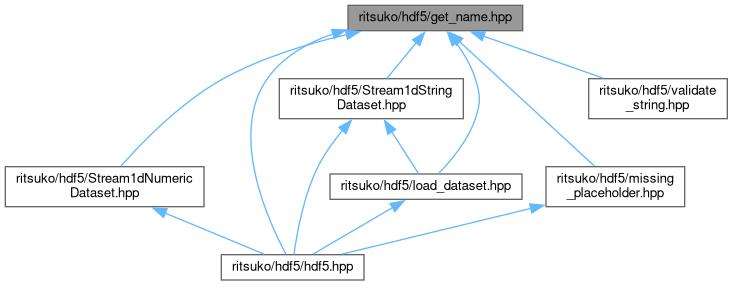
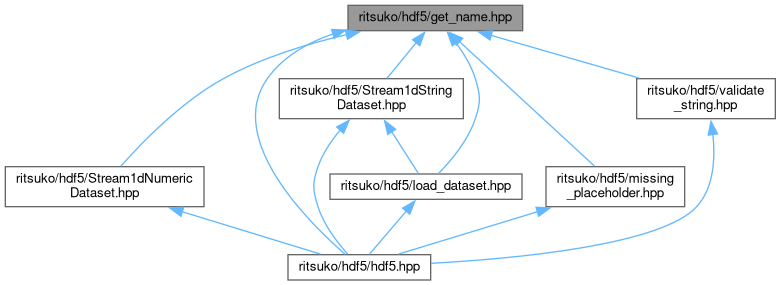
Deploying to gh-pages from @ ArtifactDB/ritsuko@81686f5f65422a0dcd03eb2ab33bd073073ce45b 🚀

diff --git a/docs/hdf5_8hpp.html b/docs/hdf5_8hpp.html
@@ -94,31 +94,33 @@ $(function() {
 <code>#include &quot;<a class="el" href="missing__placeholder_8hpp_source.html">missing_placeholder.hpp</a>&quot;</code><br />
 <code>#include &quot;<a class="el" href="open_8hpp_source.html">open.hpp</a>&quot;</code><br />
 <code>#include &quot;<a class="el" href="pick__1d__block__size_8hpp_source.html">pick_1d_block_size.hpp</a>&quot;</code><br />
+<code>#include &quot;<a class="el" href="validate__string_8hpp_source.html">validate_string.hpp</a>&quot;</code><br />
 </div><div class="textblock"><div class="dynheader">
 Include dependency graph for hdf5.hpp:</div>
 <div class="dyncontent">
 <div class="center"><img src="hdf5_8hpp__incl.png" border="0" usemap="#aritsuko_2hdf5_2hdf5_8hpp" alt=""/></div>
 <map name="aritsuko_2hdf5_2hdf5_8hpp" id="aritsuko_2hdf5_2hdf5_8hpp">
-<area shape="rect" title="Umbrella header for ritsuko&#39;s HDF5 utilities." alt="" coords="877,5,1019,31"/>
-<area shape="rect" href="Stream1dNumericDataset_8hpp.html" title="Stream a numeric 1D HDF5 dataset into memory." alt="" coords="663,152,859,177"/>
-<area shape="rect" href="pick__1d__block__size_8hpp.html" title="Pick a block size for a 1&#45;dimensional HDF5 dataset." alt="" coords="626,225,785,251"/>
-<area shape="rect" href="get__1d__length_8hpp.html" title="Get the length of a 1&#45;dimensional HDF5 dataset." alt="" coords="911,225,1038,251"/>
-<area shape="rect" href="get__name_8hpp.html" title="Get the name of a HDF5 object." alt="" coords="1165,225,1267,251"/>
-<area shape="rect" href="as__numeric__datatype_8hpp.html" title="Choose a HDF5 datatype." alt="" coords="10,225,179,251"/>
-<area shape="rect" href="Stream1dStringDataset_8hpp.html" title="Stream a numeric 1D HDF5 dataset into memory." alt="" coords="985,152,1167,177"/>
-<area shape="rect" href="exceeds__limit_8hpp.html" title="Check for larger&#45;than&#45;expected types in HDF5 datasets." alt="" coords="1495,225,1620,251"/>
-<area shape="rect" href="load__attribute_8hpp_source.html" title=" " alt="" coords="307,152,431,177"/>
-<area shape="rect" href="load__dataset_8hpp.html" title="Helper functions to load datasets." alt="" coords="1135,79,1255,104"/>
-<area shape="rect" href="missing__placeholder_8hpp.html" title="Get the missing placeholder attribute." alt="" coords="695,79,859,104"/>
-<area shape="rect" href="open_8hpp.html" title="Convenience functions to safely open HDF5 handles." alt="" coords="1745,225,1820,251"/>
-<area shape="rect" title=" " alt="" coords="611,299,683,324"/>
-<area shape="rect" title=" " alt="" coords="1097,299,1156,324"/>
-<area shape="rect" title=" " alt="" coords="1569,299,1647,324"/>
-<area shape="rect" title=" " alt="" coords="1354,299,1409,324"/>
-<area shape="rect" title=" " alt="" coords="5,299,88,324"/>
-<area shape="rect" title=" " alt="" coords="112,299,173,324"/>
-<area shape="rect" href="__strings_8hpp_source.html" title=" " alt="" coords="407,225,499,251"/>
-<area shape="rect" title=" " alt="" coords="1743,299,1823,324"/>
+<area shape="rect" title="Umbrella header for ritsuko&#39;s HDF5 utilities." alt="" coords="831,5,973,31"/>
+<area shape="rect" href="Stream1dNumericDataset_8hpp.html" title="Stream a numeric 1D HDF5 dataset into memory." alt="" coords="573,152,769,177"/>
+<area shape="rect" href="pick__1d__block__size_8hpp.html" title="Pick a block size for a 1&#45;dimensional HDF5 dataset." alt="" coords="772,225,931,251"/>
+<area shape="rect" href="get__1d__length_8hpp.html" title="Get the length of a 1&#45;dimensional HDF5 dataset." alt="" coords="352,225,479,251"/>
+<area shape="rect" href="get__name_8hpp.html" title="Get the name of a HDF5 object." alt="" coords="1409,225,1512,251"/>
+<area shape="rect" href="as__numeric__datatype_8hpp.html" title="Choose a HDF5 datatype." alt="" coords="5,225,175,251"/>
+<area shape="rect" href="Stream1dStringDataset_8hpp.html" title="Stream a numeric 1D HDF5 dataset into memory." alt="" coords="901,152,1082,177"/>
+<area shape="rect" href="exceeds__limit_8hpp.html" title="Check for larger&#45;than&#45;expected types in HDF5 datasets." alt="" coords="1107,225,1233,251"/>
+<area shape="rect" href="load__attribute_8hpp_source.html" title=" " alt="" coords="252,152,376,177"/>
+<area shape="rect" href="load__dataset_8hpp.html" title="Helper functions to load datasets." alt="" coords="1222,79,1342,104"/>
+<area shape="rect" href="missing__placeholder_8hpp.html" title="Get the missing placeholder attribute." alt="" coords="333,79,497,104"/>
+<area shape="rect" href="open_8hpp.html" title="Convenience functions to safely open HDF5 handles." alt="" coords="1891,225,1966,251"/>
+<area shape="rect" href="validate__string_8hpp.html" title="Helper functions to validate strings." alt="" coords="1474,152,1605,177"/>
+<area shape="rect" title=" " alt="" coords="815,299,887,324"/>
+<area shape="rect" title=" " alt="" coords="1018,299,1077,324"/>
+<area shape="rect" title=" " alt="" coords="1131,299,1209,324"/>
+<area shape="rect" title=" " alt="" coords="1725,299,1780,324"/>
+<area shape="rect" title=" " alt="" coords="97,299,179,324"/>
+<area shape="rect" title=" " alt="" coords="11,299,73,324"/>
+<area shape="rect" href="__strings_8hpp_source.html" title=" " alt="" coords="656,225,748,251"/>
+<area shape="rect" title=" " alt="" coords="1889,299,1969,324"/>
 </map>
 </div>
 </div>

diff --git a/docs/hdf5_8hpp_source.html b/docs/hdf5_8hpp_source.html
@@ -92,14 +92,15 @@ $(function() {
 <div class="line"><a id="l00012" name="l00012"></a><span class="lineno">   12</span><span class="preprocessor">#include &quot;<a class="code" href="missing__placeholder_8hpp.html">missing_placeholder.hpp</a>&quot;</span></div>
 <div class="line"><a id="l00013" name="l00013"></a><span class="lineno">   13</span><span class="preprocessor">#include &quot;<a class="code" href="open_8hpp.html">open.hpp</a>&quot;</span></div>
 <div class="line"><a id="l00014" name="l00014"></a><span class="lineno">   14</span><span class="preprocessor">#include &quot;<a class="code" href="pick__1d__block__size_8hpp.html">pick_1d_block_size.hpp</a>&quot;</span></div>
-<div class="line"><a id="l00015" name="l00015"></a><span class="lineno">   15</span> </div>
-<div class="line"><a id="l00021" name="l00021"></a><span class="lineno">   21</span><span class="keyword">namespace </span><a class="code hl_namespace" href="namespaceritsuko.html">ritsuko</a> {</div>
-<div class="line"><a id="l00022" name="l00022"></a><span class="lineno">   22</span> </div>
-<div class="line"><a id="l00027" name="l00027"></a><span class="lineno">   27</span><span class="keyword">namespace </span>hdf5 {}</div>
-<div class="line"><a id="l00028" name="l00028"></a><span class="lineno">   28</span> </div>
-<div class="line"><a id="l00029" name="l00029"></a><span class="lineno">   29</span>}</div>
-<div class="line"><a id="l00030" name="l00030"></a><span class="lineno">   30</span> </div>
-<div class="line"><a id="l00031" name="l00031"></a><span class="lineno">   31</span><span class="preprocessor">#endif</span></div>
+<div class="line"><a id="l00015" name="l00015"></a><span class="lineno">   15</span><span class="preprocessor">#include &quot;<a class="code" href="validate__string_8hpp.html">validate_string.hpp</a>&quot;</span></div>
+<div class="line"><a id="l00016" name="l00016"></a><span class="lineno">   16</span> </div>
+<div class="line"><a id="l00022" name="l00022"></a><span class="lineno">   22</span><span class="keyword">namespace </span><a class="code hl_namespace" href="namespaceritsuko.html">ritsuko</a> {</div>
+<div class="line"><a id="l00023" name="l00023"></a><span class="lineno">   23</span> </div>
+<div class="line"><a id="l00028" name="l00028"></a><span class="lineno">   28</span><span class="keyword">namespace </span>hdf5 {}</div>
+<div class="line"><a id="l00029" name="l00029"></a><span class="lineno">   29</span> </div>
+<div class="line"><a id="l00030" name="l00030"></a><span class="lineno">   30</span>}</div>
+<div class="line"><a id="l00031" name="l00031"></a><span class="lineno">   31</span> </div>
+<div class="line"><a id="l00032" name="l00032"></a><span class="lineno">   32</span><span class="preprocessor">#endif</span></div>
 <div class="ttc" id="aStream1dNumericDataset_8hpp_html"><div class="ttname"><a href="Stream1dNumericDataset_8hpp.html">Stream1dNumericDataset.hpp</a></div><div class="ttdoc">Stream a numeric 1D HDF5 dataset into memory.</div></div>
 <div class="ttc" id="aStream1dStringDataset_8hpp_html"><div class="ttname"><a href="Stream1dStringDataset_8hpp.html">Stream1dStringDataset.hpp</a></div><div class="ttdoc">Stream a numeric 1D HDF5 dataset into memory.</div></div>
 <div class="ttc" id="aas__numeric__datatype_8hpp_html"><div class="ttname"><a href="as__numeric__datatype_8hpp.html">as_numeric_datatype.hpp</a></div><div class="ttdoc">Choose a HDF5 datatype.</div></div>
@@ -111,6 +112,7 @@ $(function() {
 <div class="ttc" id="anamespaceritsuko_html"><div class="ttname"><a href="namespaceritsuko.html">ritsuko</a></div><div class="ttdoc">Assorted helper functions for parsing and validation.</div><div class="ttdef"><b>Definition:</b> choose_missing_placeholder.hpp:15</div></div>
 <div class="ttc" id="aopen_8hpp_html"><div class="ttname"><a href="open_8hpp.html">open.hpp</a></div><div class="ttdoc">Convenience functions to safely open HDF5 handles.</div></div>
 <div class="ttc" id="apick__1d__block__size_8hpp_html"><div class="ttname"><a href="pick__1d__block__size_8hpp.html">pick_1d_block_size.hpp</a></div><div class="ttdoc">Pick a block size for a 1-dimensional HDF5 dataset.</div></div>
+<div class="ttc" id="avalidate__string_8hpp_html"><div class="ttname"><a href="validate__string_8hpp.html">validate_string.hpp</a></div><div class="ttdoc">Helper functions to validate strings.</div></div>
 </div><!-- fragment --></div><!-- contents -->
 <!-- start footer part -->
 <hr class="footer"/><address class="footer"><small>

diff --git a/docs/get__name_8hpp.html b/docs/get__name_8hpp.html
@@ -105,11 +105,11 @@ This graph shows which files directly or indirectly include this file:</div>
 <map name="aritsuko_2hdf5_2get__name_8hppdep" id="aritsuko_2hdf5_2get__name_8hppdep">
 <area shape="rect" title="Get the name of a HDF5 object." alt="" coords="348,5,523,31"/>
 <area shape="rect" href="Stream1dNumericDataset_8hpp.html" title="Stream a numeric 1D HDF5 dataset into memory." alt="" coords="5,167,204,207"/>
-<area shape="rect" href="hdf5_8hpp.html" title="Umbrella header for ritsuko&#39;s HDF5 utilities." alt="" coords="221,255,364,280"/>
+<area shape="rect" href="hdf5_8hpp.html" title="Umbrella header for ritsuko&#39;s HDF5 utilities." alt="" coords="288,255,431,280"/>
 <area shape="rect" href="Stream1dStringDataset_8hpp.html" title="Stream a numeric 1D HDF5 dataset into memory." alt="" coords="279,79,463,119"/>
 <area shape="rect" href="load__dataset_8hpp.html" title="Helper functions to load datasets." alt="" coords="330,174,522,199"/>
 <area shape="rect" href="missing__placeholder_8hpp.html" title="Get the missing placeholder attribute." alt="" coords="546,167,685,207"/>
-<area shape="rect" href="validate__string_8hpp.html" title="Helper functions to validate strings." alt="" coords="589,79,727,119"/>
+<area shape="rect" href="validate__string_8hpp.html" title="Helper functions to validate strings." alt="" coords="637,79,775,119"/>
 </map>
 </div>
 </div>

diff --git a/docs/pick__1d__block__size_8hpp.html b/docs/pick__1d__block__size_8hpp.html
@@ -101,9 +101,9 @@ This graph shows which files directly or indirectly include this file:</div>
 <map name="aritsuko_2hdf5_2pick__1d__block__size_8hppdep" id="aritsuko_2hdf5_2pick__1d__block__size_8hppdep">
 <area shape="rect" title="Pick a block size for a 1&#45;dimensional HDF5 dataset." alt="" coords="237,5,375,45"/>
 <area shape="rect" href="Stream1dNumericDataset_8hpp.html" title="Stream a numeric 1D HDF5 dataset into memory." alt="" coords="5,181,204,221"/>
-<area shape="rect" href="hdf5_8hpp.html" title="Umbrella header for ritsuko&#39;s HDF5 utilities." alt="" coords="196,269,339,295"/>
+<area shape="rect" href="hdf5_8hpp.html" title="Umbrella header for ritsuko&#39;s HDF5 utilities." alt="" coords="221,269,364,295"/>
 <area shape="rect" href="Stream1dStringDataset_8hpp.html" title="Stream a numeric 1D HDF5 dataset into memory." alt="" coords="279,93,463,133"/>
-<area shape="rect" href="validate__string_8hpp.html" title="Helper functions to validate strings." alt="" coords="487,93,626,133"/>
+<area shape="rect" href="validate__string_8hpp.html" title="Helper functions to validate strings." alt="" coords="489,93,627,133"/>
 <area shape="rect" href="load__dataset_8hpp.html" title="Helper functions to load datasets." alt="" coords="330,189,522,214"/>
 </map>
 </div>

diff --git a/docs/validate__string_8hpp.html b/docs/validate__string_8hpp.html
@@ -106,6 +106,15 @@ Include dependency graph for validate_string.hpp:</div>
 <area shape="rect" href="__strings_8hpp_source.html" title=" " alt="" coords="468,93,560,119"/>
 </map>
 </div>
+</div><div class="textblock"><div class="dynheader">
+This graph shows which files directly or indirectly include this file:</div>
+<div class="dyncontent">
+<div class="center"><img src="validate__string_8hpp__dep__incl.png" border="0" usemap="#aritsuko_2hdf5_2validate__string_8hppdep" alt=""/></div>
+<map name="aritsuko_2hdf5_2validate__string_8hppdep" id="aritsuko_2hdf5_2validate__string_8hppdep">
+<area shape="rect" title="Helper functions to validate strings." alt="" coords="7,5,146,45"/>
+<area shape="rect" href="hdf5_8hpp.html" title="Umbrella header for ritsuko&#39;s HDF5 utilities." alt="" coords="5,93,148,119"/>
+</map>
+</div>
 </div>
 <p><a href="validate__string_8hpp_source.html">Go to the source code of this file.</a></p>
 <table class="memberdecls">
